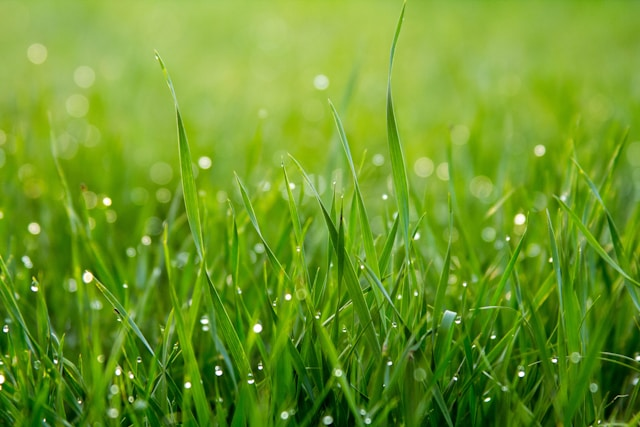
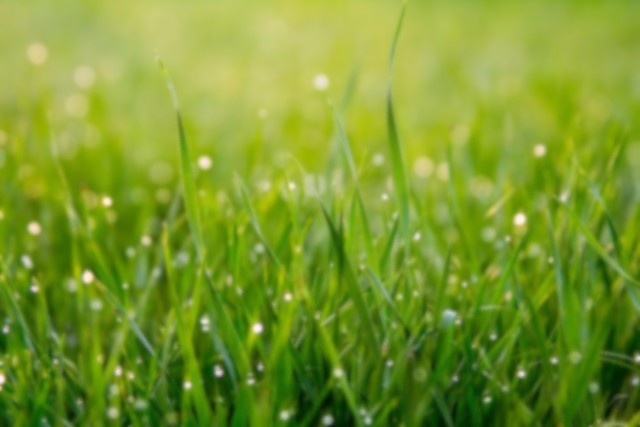
Improved loading-time

diff --git a/src/render.js b/src/render.js
@@ -1,11 +1,6 @@
 import { fetchFirstNPokemon, IMG_URL } from "./api.js";
-import {
-  capitalize,
-  formatID,
-  applyTypeStyles,
-  fetchGeneration,
-  normalizeGeneration,
-} from "./utils.js";
+import { findGeneration } from "./generations.js";
+import { capitalize, formatID, applyTypeStyles } from "./utils.js";
 
 const pokemonDisplay = document.getElementById("pokemonDisplay");
 
@@ -14,8 +9,8 @@ export async function makePokemonCard(p) {
   const pokemonCard = document.createElement("article");
   pokemonCard.classList.add("pokemonCard");
   pokemonCard.dataset.id = p.id;
-  const generationString = await fetchGeneration(p.id);
-  const generation = normalizeGeneration(generationString);
+  const generation = findGeneration(p.id);
+  console.log(generation);
 
   pokemonCard.classList.add(`gen${generation}`);
   pokemonCard.style.borderColor = `var(--gen${generation})`;
@@ -52,16 +47,10 @@ export async function makePokemonCard(p) {
 
 /** Showing all pokemons*/
 export async function renderPokemon(n) {
-  // Get the first n Pokémon
   const allPokemon = await fetchFirstNPokemon(n);
-  // Gen 1 - 3: 386
-  // console.log(typeof allPokemon);
 
   // Sort by ID in ascending order (1, 2, 3, ...)
   allPokemon.sort((a, b) => a.id - b.id);
 
-  // Wait for all cards to be created in order
-  for (const p of allPokemon) {
-    await makePokemonCard(p);
-  }
+  Promise.all(allPokemon.map((p) => makePokemonCard(p)));
 }

diff --git a/src/generations.js b/src/generations.js
@@ -31,3 +31,38 @@ export function genToggle() {
     });
   });
 }
+
+export function findGeneration(pokeId) {
+  const id = pokeId;
+  let generation = "";
+  switch (true) {
+    case id <= 151:
+      generation = "1";
+      break;
+    case id <= 251:
+      generation = "2";
+      break;
+    case id <= 386:
+      generation = "3";
+      break;
+    case id <= 493:
+      generation = "4";
+      break;
+    case id <= 649:
+      generation = "5";
+      break;
+    case id <= 721:
+      generation = "6";
+      break;
+    case id <= 809:
+      generation = "7";
+      break;
+    case id <= 905:
+      generation = "8";
+      break;
+    case id <= 1025:
+      generation = "9";
+      break;
+  }
+  return generation;
+}

diff --git a/style.css b/style.css
@@ -7,7 +7,8 @@
 body {
   width: 100%;
   background-color: var(--background);
-  background: url(./images/GrassBackground.jpg) center/cover no-repeat fixed;
+  background: url(./images/GrassBackground_transparent.png) center/cover
+    no-repeat fixed;
   font-family: calibri, sans-serif;
 }
 
@@ -74,17 +75,25 @@ header {
   position: sticky;
   top: 0;
 
+  padding-left: 3svw;
+
   display: flex;
   flex-direction: row;
+  align-items: center;
+  gap: 4svw;
 }
 
 #pokedexImg {
-  height: 75%;
-  margin: 2svh 5svw;
+  height: 15svh;
 }
 
 #imgContainer {
   height: 80%;
+}
+
+#logo {
+  height: 100%;
+  width: auto;
 }
 
 /* 

diff --git a/src/api.js b/src/api.js
@@ -6,7 +6,7 @@ export const IMG_URL =
 /* Fetch a single Pokémon by name or ID */
 export async function fetchPokemon(nameOrId) {
   const res = await fetch(
-    `${BASE_URL}/pokemon/${String(nameOrId).toLowerCase()}`
+    `${BASE_URL}/pokemon/${String(nameOrId).toLowerCase()}`,
   );
   return await res.json(); // returns full Pokémon object
 }
@@ -18,8 +18,6 @@ export async function fetchFirstNPokemon(n) {
 
   // Fetch all in parallel
   const pokemonArray = await Promise.all(ids.map((id) => fetchPokemon(id)));
-
-  console.log(pokemonArray);
 
   // Return array of Pokémon objects
   return pokemonArray;

diff --git a/index.html b/index.html
@@ -1,4 +1,4 @@
-<!DOCTYPE html>
+<!doctype html>
 <html lang="en">
   <head>
     <meta charset="UTF-8" />
